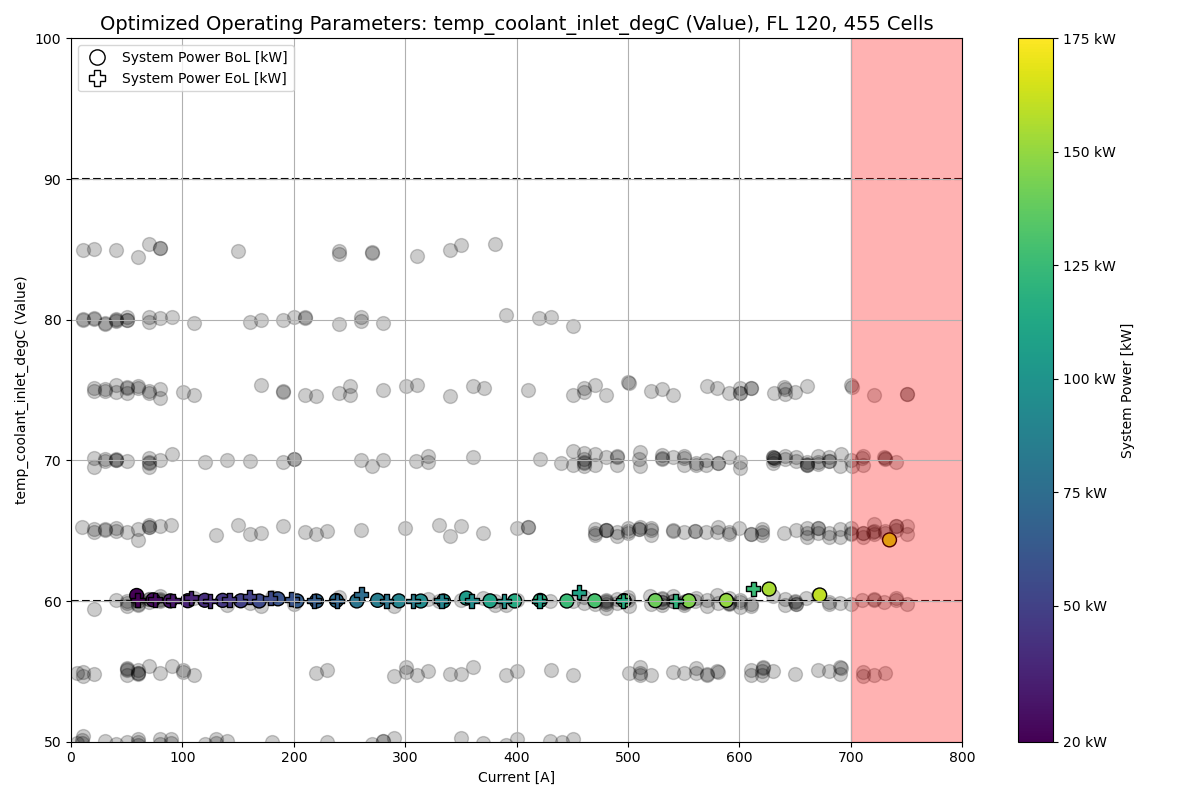
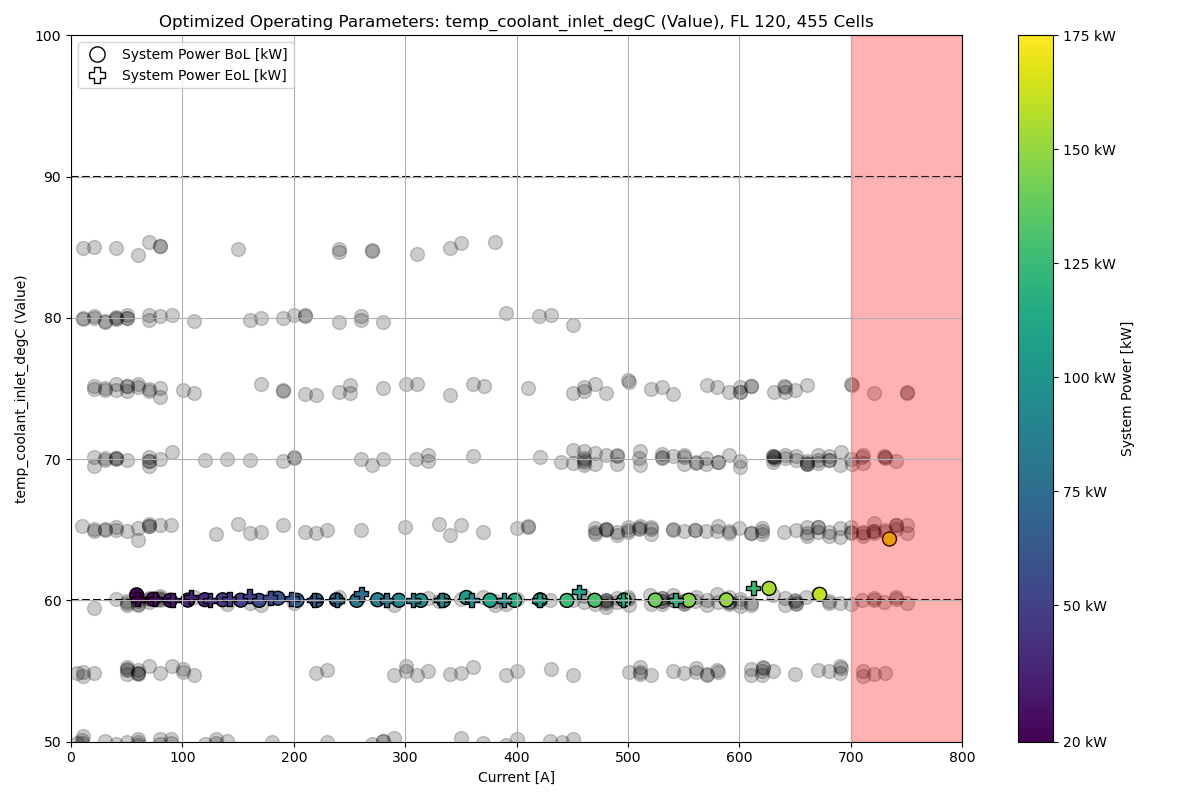
refactor: Extract duplicated plot code into a separate file

diff --git a/05_overall/05_fcs_dimensioning_model/Postprocessing/get_plots_operating_parameters.py b/05_overall/05_fcs_dimensioning_model/Postprocessing/get_plots_operating_parameters.py
@@ -5,6 +5,9 @@ import matplotlib.lines as mlines
 import sys
 import os
 
+from get_plot_settings import *
+
+
 # Import parameters.py from the parent directory
 sys.path.append(os.path.abspath(os.path.join(os.path.dirname(__file__), '..')))
 from parameters import Optimization_Parameters
@@ -34,16 +37,17 @@ def plot_optimized_parameters(data, data_doe, titles, fl_set, markers_oL, var, y
     num_columns = data_doe.shape[1]
     
     for df, title in zip(data, titles):
-        df = df[(df['Flight Level (100x ft)'] == fl_set) & (df["weighting ([0,1])"] == weighting)]
+
+        df = filter_data_by_flight_level(df, fl_set, weighting)
         fig, ax = plt.subplots(figsize=(12, 8))
         
         # Create a colormap and normalize for the color gradient
-        norm = mcolors.Normalize(vmin=20, vmax=175)
-        cmap = cm.ScalarMappable(norm=norm, cmap='viridis')
+        norm, cmap = create_colormap()
+
         
         # Separate BoL (Beginning of Life) and EoL (End of Life) points
-        df_bol = df[df["eol (t/f)"] == False]
-        df_eol = df[df["eol (t/f)"] == True]
+        df_bol, df_eol = seperate_bol_eol(df)
+
         
         # plot min/max bounds according to parameters.py
         lower_bound = ax.axhline(min(_params_optimization.bounds[num_columns-1]), color='black', linestyle='--', label=f'{var} Bounds', zorder=0)
@@ -68,25 +72,17 @@ def plot_optimized_parameters(data, data_doe, titles, fl_set, markers_oL, var, y
                                  data_doe.iloc[:,-1], c="k", edgecolor='k', 
                                  s=100, marker="o", label='DOE data', zorder=0, alpha=0.2)
         
-        # Add colorbar for the gradient
-        cbar = plt.colorbar(cmap, ax=ax)
-        cbar.set_label('System Power [kW]')
-        
-        # Manually set colorbar ticks from 20 to 175 in 25 steps, excluding 25
-        cbar.set_ticks([20, 50, 75, 100, 125, 150, 175])
-        cbar.ax.set_yticklabels([f'{int(t)} kW' for t in cbar.get_ticks()])
 
+        # Add colorbar for the gradient
+        add_colorbar(cmap, ax)
         # Add a red shaded area from 700 A to 800 A
         ax.axvspan(700, 800, color='red', alpha=0.3)
 
         # Set title and labels
-        ax.set_title(f'Optimized Operating Parameters: {var}, FL {fl_set}, {title}', fontsize=14)
-        ax.set_xlabel('Current [A]')
-        ax.set_ylabel(f'{var}')
-        ax.grid(True)
-        ax.set_xlim([0, 800])
-        ax.set_ylim([yrange[0], yrange[1]])
+        configure_axes(ax, f'Optimized Operating Parameters: {var}, FL {fl_set}, {title}', 'Current [A]', [0, 800], f'{var}',[yrange[0], yrange[1]])
         fig.tight_layout()
+        # Create a custom legend (optional)
+        create_legend(ax, markers_oL)
 
         # # Annotate points where 'eol (t/f)' is True
         # for i in df[df["eol (t/f)"] == True].index:
@@ -97,17 +93,9 @@ def plot_optimized_parameters(data, data_doe, titles, fl_set, markers_oL, var, y
         #                 ha='center',
         #                 fontsize=11, 
         #                 color='black')
-        #Create a custom legend (optional)
-        legend_bol = mlines.Line2D([], [], color='none', marker=markers_oL[0], 
-                                      markerfacecolor='none', markeredgecolor='black', 
-                                      markersize=11, linestyle='None', label='System Power BoL [kW]')
-        legend_eol = mlines.Line2D([], [], color='none', marker=markers_oL[1],
-                                      markerfacecolor='none', markeredgecolor='black', 
-                                      markersize=11, linestyle='None', label='System Power EoL [kW]')
-        
-        ax.legend(handles=[legend_bol,legend_eol], loc='best')
     
         
         # Save the plot as a PNG file if saving is True
         if saving:
             plt.savefig(f'{var}_{title}.png')
+        plt.show()

diff --git a/05_overall/05_fcs_dimensioning_model/Postprocessing/plot_pol_curves.py b/05_overall/05_fcs_dimensioning_model/Postprocessing/plot_pol_curves.py
@@ -5,6 +5,9 @@ import matplotlib.colors as mcolors
 import matplotlib.cm as cm
 import matplotlib.lines as mlines
 
+from get_plot_settings import *
+
+
 # %% PLOT: Polcurve single BoL/EoL
 def plot_polarization_curves(data, titles, fl_set, markers_oL, weighting, saving=True):
     """
@@ -18,18 +21,16 @@ def plot_polarization_curves(data, titles, fl_set, markers_oL, weighting, saving
 
     for df, title in zip(data, titles):
         # Filter data for the specified flight level
-        df = df[(df['Flight Level (100x ft)'] == fl_set) & (df['weighting ([0,1])'] == weighting)]
+        df = filter_data_by_flight_level(df, fl_set, weighting)
         
         # Create the figure and axis
         fig, ax = plt.subplots(figsize=(12, 8))
         
         # Set up colormap for 'System Power (kW)'
-        norm = mcolors.Normalize(vmin=20, vmax=175)
-        cmap = cm.ScalarMappable(norm=norm, cmap='viridis')
+        norm, cmap = create_colormap()
         
         # Separate BoL (Beginning of Life) and EoL (End of Life) points
-        df_bol = df[df["eol (t/f)"] == False]
-        df_eol = df[df["eol (t/f)"] == True]
+        df_bol, df_eol = seperate_bol_eol(df)
 
         # Plot BoL points (use circles by default)
         scatter_bol = ax.scatter(df_bol['current_A (Value)'], 
@@ -46,23 +47,19 @@ def plot_polarization_curves(data, titles, fl_set, markers_oL, weighting, saving
                                  edgecolor='k', s=100, marker=markers_oL[1], label='EoL')
 
         # Add colorbar for the gradient
-        cbar = plt.colorbar(cmap, ax=ax)
-        cbar.set_label('System Power [kW]')
-        
-        # Set custom colorbar ticks
-        cbar.set_ticks([20, 50, 75, 100, 125, 150, 175])
-        cbar.ax.set_yticklabels([f'{int(t)} kW' for t in cbar.get_ticks()])
+        add_colorbar(cmap, ax)
+
 
         # Add a shaded region to highlight a specific current range
         ax.axvspan(700, 800, color='red', alpha=0.3)
 
         # Set title and axis labels
-        ax.set_title(f'System Polarization Curve, FL {fl_set}, {title}', fontsize=14)
-        ax.set_xlabel('Current [A]')
-        ax.set_ylabel('Cell Voltage [V]')
-        ax.grid(True)
-        ax.set_xlim([0, 800])
-        ax.set_ylim([0, 1.25])
+        configure_axes(ax, f'System Polarization Curve, FL {fl_set}, {title}', 'Current [A]', [0, 800], 'Cell Voltage [V]',[0, 1.25])
+        # Create a custom legend (optional)
+        create_legend(ax, markers_oL)
+
+
+
 
         # # Annotate EoL points with text
         # for i, row in df_eol.iterrows():
@@ -71,15 +68,7 @@ def plot_polarization_curves(data, titles, fl_set, markers_oL, weighting, saving
         #                 textcoords="offset points", xytext=(2, -20), 
         #                 ha='center', fontsize=11, color='black')
 
-        # Create a custom legend (optional)
-        legend_bol = mlines.Line2D([], [], color='none', marker=markers_oL[0], 
-                                      markerfacecolor='none', markeredgecolor='black', 
-                                      markersize=11, linestyle='None', label='System Power BoL [kW]')
-        legend_eol = mlines.Line2D([], [], color='none', marker=markers_oL[1],
-                                      markerfacecolor='none', markeredgecolor='black', 
-                                      markersize=11, linestyle='None', label='System Power EoL [kW]')
-        
-        ax.legend(handles=[legend_bol,legend_eol], loc='best')
+
 
         # Adjust layout and save the plot if necessary
         fig.tight_layout()

diff --git a/05_overall/05_fcs_dimensioning_model/Postprocessing/get_plot_settings.py b/05_overall/05_fcs_dimensioning_model/Postprocessing/get_plot_settings.py
@@ -1,0 +1,64 @@
+import matplotlib.pyplot as plt
+import matplotlib.colors as mcolors
+import matplotlib.cm as cm
+import matplotlib.lines as mlines
+
+
+
+def set_plot_settings(data, titles, fl_set, x_label, y_label, fig_size, label, legend, colormap, weighting, saving=True):
+    fig, ax = get_figure(fig_size)
+    df = filter_data_by_flight_level(data, fl_set, weighting)
+
+def get_figure(fig_size):
+    fig, ax = plt.subplots(figsize=fig_size)
+    return fig, ax
+
+
+def filter_data_by_flight_level(df, fl_set, weighting):
+    df = df[(df['Flight Level (100x ft)'] == fl_set) & (df['weighting ([0,1])'] == weighting)]
+    return df
+
+
+
+
+
+
+def configure_axes(ax, title="", xlabel="", xlim=None, ylabel="", ylim=None):
+        ax.set_title(title)
+        ax.set_xlabel(xlabel)
+        ax.set_xlim(xlim)
+        ax.set_ylabel(ylabel)
+        ax.set_ylim(ylim)
+        ax.grid(True)
+
+def create_legend(ax, markers_oL):
+        legend_bol = mlines.Line2D([], [], color='none', marker=markers_oL[0], 
+                                      markerfacecolor='none', markeredgecolor='black', 
+                                      markersize=11, linestyle='None', label='System Power BoL [kW]')
+        legend_eol = mlines.Line2D([], [], color='none', marker=markers_oL[1],
+                                      markerfacecolor='none', markeredgecolor='black', 
+                                      markersize=11, linestyle='None', label='System Power EoL [kW]')
+        
+        ax.legend(handles=[legend_bol,legend_eol], loc='best')
+
+def create_colormap(): 
+        norm = mcolors.Normalize(vmin=20, vmax=175)
+        cmap = cm.ScalarMappable(norm=norm, cmap='viridis')
+        return norm, cmap
+
+
+def seperate_bol_eol(df):
+        df_bol = df[df["eol (t/f)"] == False]
+        df_eol = df[df["eol (t/f)"] == True]
+        return df_bol, df_eol
+
+
+
+def add_colorbar(cmap, ax):
+        # Add colorbar for the gradient
+        cbar = plt.colorbar(cmap, ax=ax)
+        cbar.set_label('System Power [kW]')
+        
+        # Set custom colorbar ticks
+        cbar.set_ticks([20, 50, 75, 100, 125, 150, 175])
+        cbar.ax.set_yticklabels([f'{int(t)} kW' for t in cbar.get_ticks()])

diff --git a/05_overall/05_fcs_dimensioning_model/Postprocessing/plot_h2_vs_mass.py b/05_overall/05_fcs_dimensioning_model/Postprocessing/plot_h2_vs_mass.py
@@ -4,6 +4,8 @@ import matplotlib.colors as mcolors
 import matplotlib.cm as cm
 from scipy.spatial import ConvexHull
 
+from get_plot_settings import configure_axes
+
 def plot_h2_vs_mass(data, titles, colors, fl_set, saving=True):
     """
     Plot of H2 supply vs system power with convex hull envelope around all points,
@@ -74,11 +76,8 @@ def plot_h2_vs_mass(data, titles, colors, fl_set, saving=True):
         connect_power_levels(ax, df_filtered)
 
         # Set title, labels, and legend
-        ax.set_title(f'{title} Cells, FL {fl_set}')
-        ax.set_xlabel('System Mass [kg]')
-        ax.set_xlim([90, 135])
-        ax.set_ylabel('Hydrogen Supply Rate [g/s]')
-        ax.grid(True)
+        configure_axes(ax, f'{title} Cells, FL {fl_set}', 'System Mass [kg]', [90, 135], 'Hydrogen Supply Rate [g/s]', None )
+
         ax.legend([f"Optimized: {label[0]}", f"Optimized: {label[1]}"], loc='lower right')
 
     # Add colorbar for the gradient
